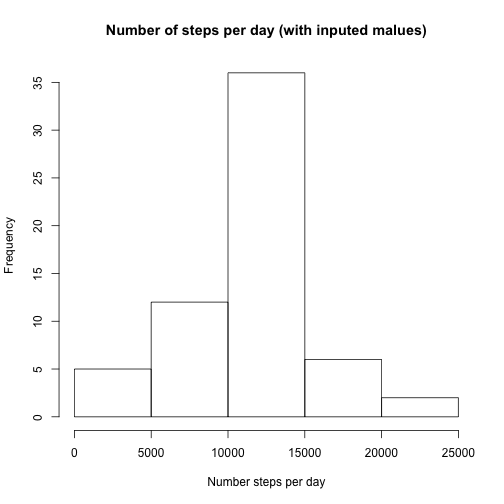
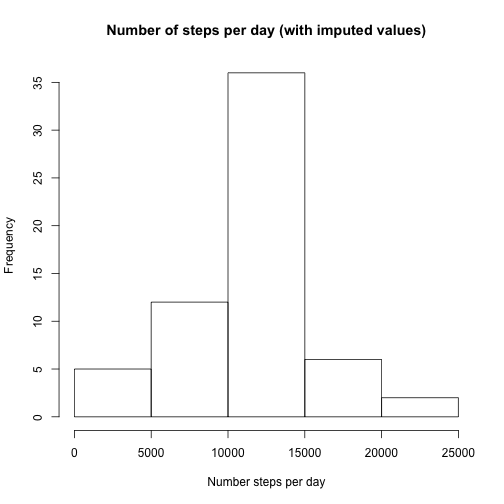
Final report.

Changed region(s): [[0.3274, 0.0298, 0.8631, 0.0893], [0.2083, 0.0298, 0.2976, 0.0893]]

diff --git a/PA1_template.html b/PA1_template.html
@@ -289,10 +289,10 @@ for (i in seq_along(df$steps)) {
 <li><p>Make a histogram of the total number of steps taken each day and Calculate and report the mean and median total number of steps taken per day. Do these values differ from the estimates from the first part of the assignment? What is the impact of imputing missing data on the estimates of the total daily number of steps?</p>
 
 <pre><code class="r">dfNoNAAggrSum &lt;- aggregate(steps~date, data=dfNoNA, FUN=sum)
-hist(dfNoNAAggrSum$steps,main=&quot;Number of steps per day (with inputed malues)&quot;,xlab=&quot;Number steps per day&quot;)
+hist(dfNoNAAggrSum$steps,main=&quot;Number of steps per day (with imputed values)&quot;,xlab=&quot;Number steps per day&quot;)
 </code></pre>
 
[2 lines of base64/hex data omitted]
 
 <pre><code class="r">mI &lt;- mean(dfNoNAAggrSum$steps)
 medI &lt;- median(dfNoNAAggrSum$steps)

diff --git a/PA1_template.md b/PA1_template.md
@@ -98,7 +98,7 @@ For this part of the assignment, you can ignore the missing values in the datase
     
     ```r
     dfNoNAAggrSum <- aggregate(steps~date, data=dfNoNA, FUN=sum)
-    hist(dfNoNAAggrSum$steps,main="Number of steps per day (with inputed malues)",xlab="Number steps per day")
+    hist(dfNoNAAggrSum$steps,main="Number of steps per day (with imputed values)",xlab="Number steps per day")
     ```
     
     ![plot of chunk unnamed-chunk-8](figure/unnamed-chunk-8-1.png)
